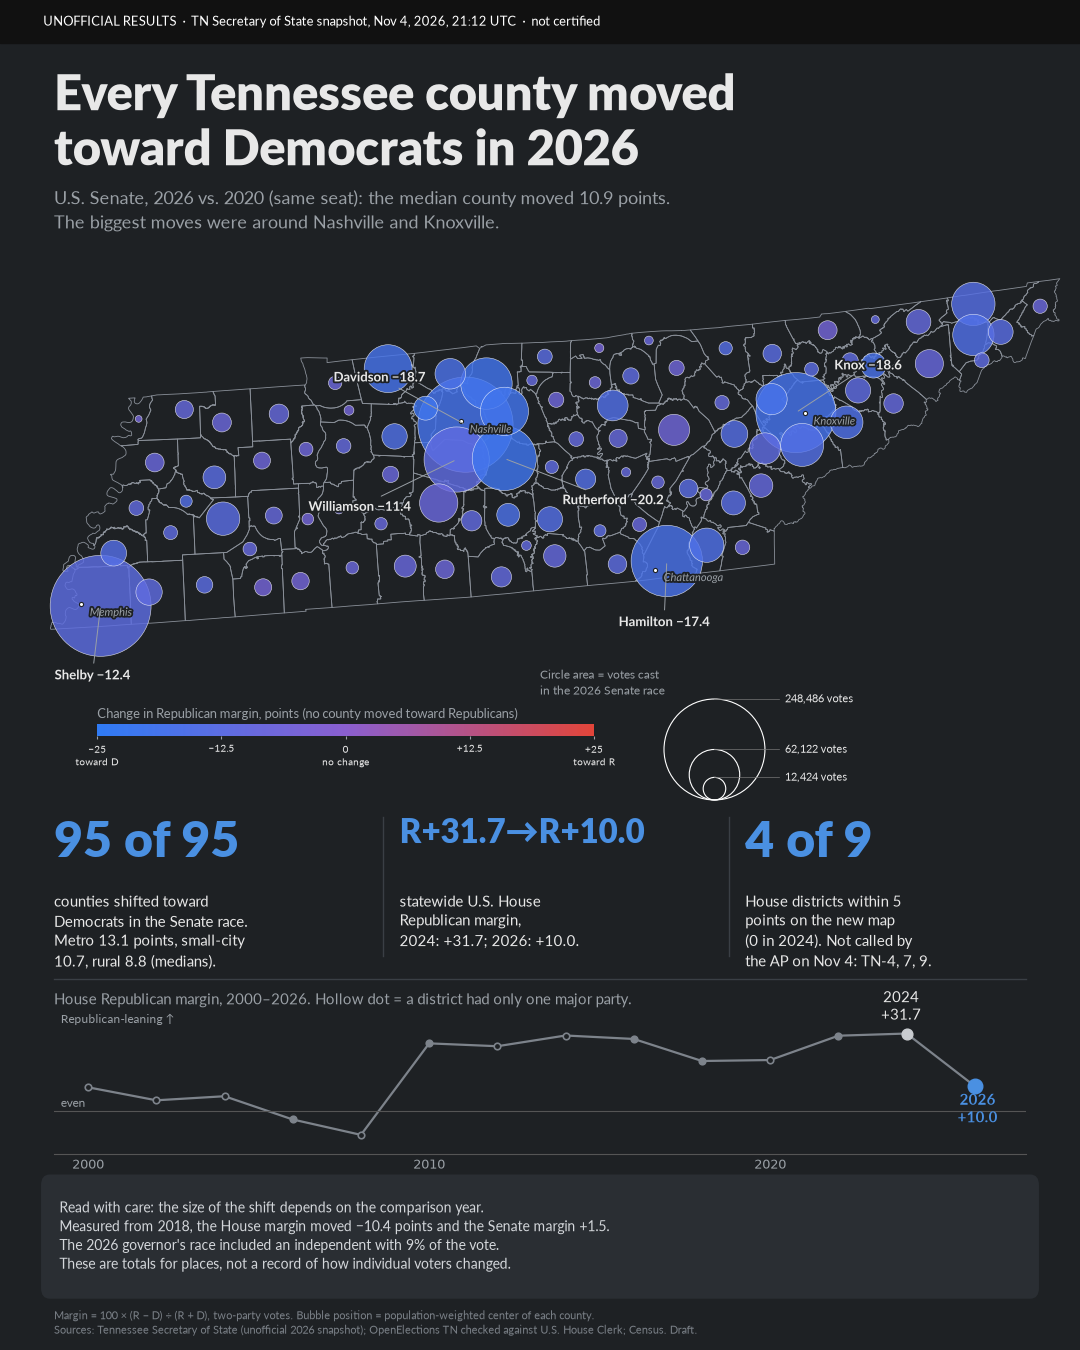
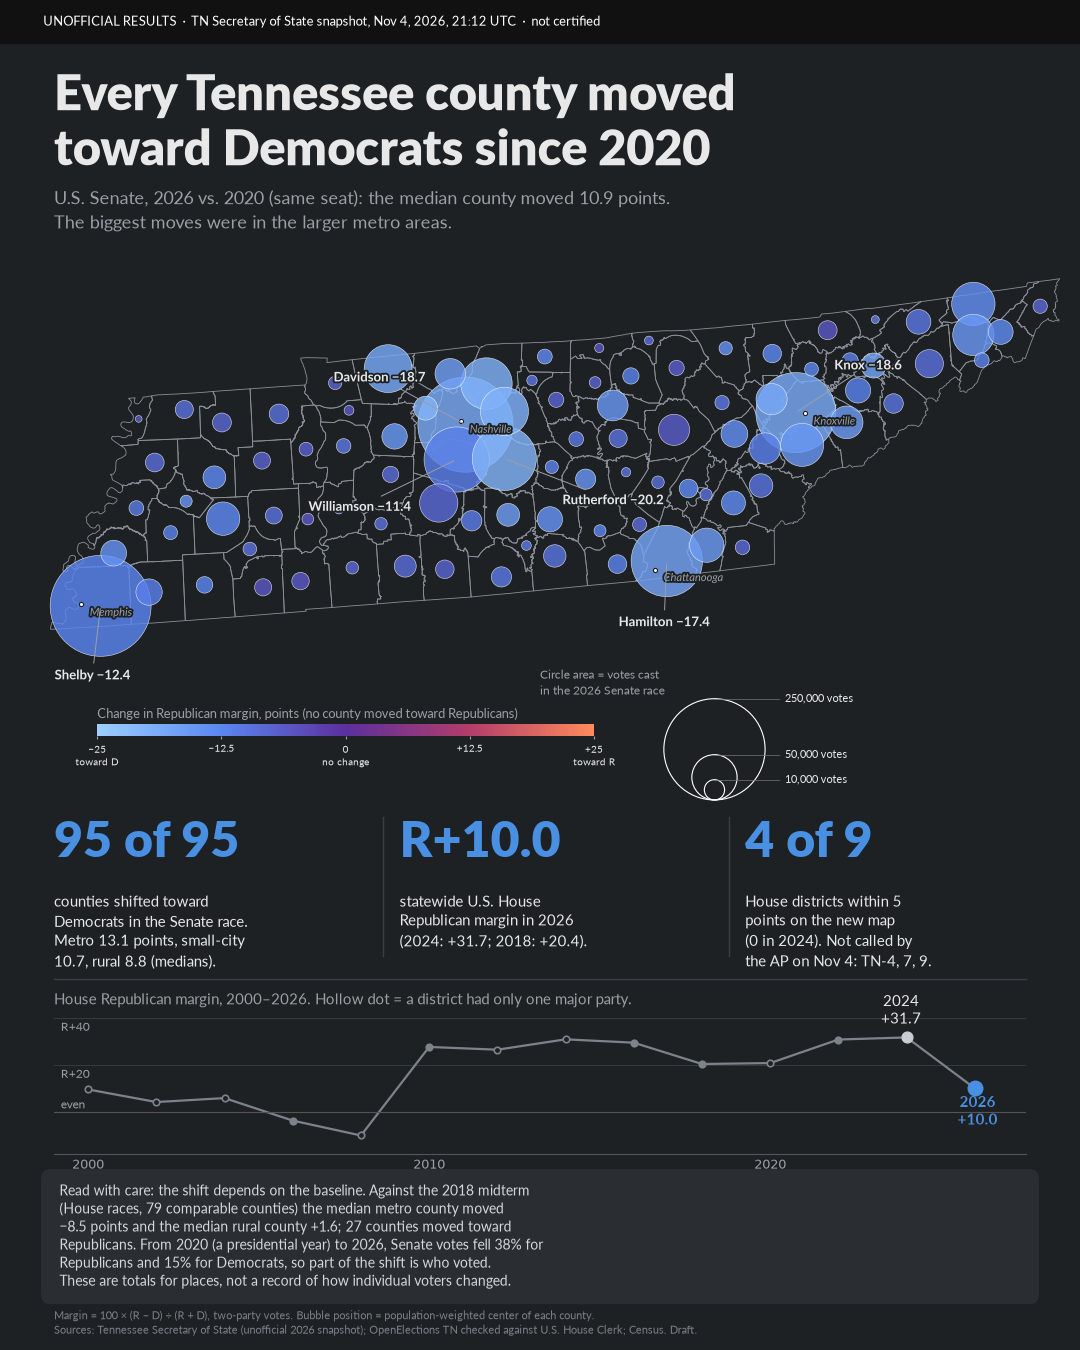
Add Tennessee 2026 maps page (draft, unofficial results) as of 2026-11-05 02:13 UTC

diff --git a/tn-2026/index.html b/tn-2026/index.html
@@ -6,6 +6,6 @@ main{max-width:1100px;margin:0 auto;padding:16px}h1{font-size:clamp(26px,4vw,40p
 figure{margin:28px 0}img{width:100%;height:auto;border-radius:6px;background:#fff}figcaption{padding:8px 2px;max-width:50em}.note{background:var(--card);padding:12px 14px;border-radius:8px;max-width:46em}a{color:inherit}</style></head><body>
 <header><b>UNOFFICIAL RESULTS</b> &middot; Tennessee Secretary of State snapshot, Nov 4, 2026, 21:12 UTC &middot; all precincts reporting &middot; not certified</header>
 <main><h1>Tennessee 2026 election maps (draft)</h1>
-<p>Maps from a work-in-progress analysis of Tennessee elections, 2000&ndash;2026. Results shown are an unofficial election-night snapshot and will change as counties canvass and the state certifies. This page is a draft: nothing here is a final conclusion.</p>
+<p>Maps from a work-in-progress analysis of Tennessee elections, 2000&ndash;2026. The size of the 2026 shift depends heavily on the comparison year: it is large against 2020, 2022 and 2024 and much smaller, and concentrated in the larger metro counties, against the 2018 midterm. Results shown are an unofficial election-night snapshot and will change as counties canvass and the state certifies. This page is a draft: nothing here is a final conclusion.</p>
 <div class="note">Margin = 100 &times; (R &minus; D) &divide; (R + D), two-party votes. Maps show where results moved, not how individual voters changed. Sources: Tennessee Secretary of State (unofficial 2026 snapshot); OpenElections TN checked against U.S. House Clerk; Census Bureau; HB 7003 (114th General Assembly).</div>
-<figure><a href="img/hero_dark_16x9.png"><img src="img/hero_dark_16x9.png" alt="Dark map of Tennessee with hollow county outlines and one circle per county. Circle size is votes cast in the 2026 U.S. Senate race; circle color runs from blue (largest move toward Democrats) toward purple (smaller moves). Every circle is blue or blue-purple: all 95 counties moved toward Democrats compared with 2020, with the biggest moves around Nashville and Knoxville. Side panel: statewide U.S. House Republican margin fell from R+31.7 in 2024 to R+10.0 in 2026, and four of nine House districts were within 5 points." loading="lazy"></a><figcaption><b>Every Tennessee county moved toward Democrats in 2026</b><br>U.S. Senate, 2026 vs 2020 (same seat). Median county moved 10.9 points toward Democrats; 95 of 95 counties moved. The size of the shift depends on the comparison year (measured from 2018, the House margin moved -10.4 points and the Senate margin +1.5). In the 2000-2026 strip, hollow dots mark years when a district had only one major party on the ballot, which distorts the statewide margin (for example 2008).<br><a href="img/hero_dark_16x9.png">Open full size</a></figcaption></figure><figure><a href="img/fig1_dark_bubble_swing.png"><img src="img/fig1_dark_bubble_swing.png" alt="Large dark map of Tennessee showing one circle per county, sized by 2026 Senate votes cast and colored by change in the Republican margin since 2020. Shelby, Davidson, Knox, Hamilton and Rutherford are the largest circles. All circles are blue to blue-purple; none are red." loading="lazy"></a><figcaption><b>The bubble map: change in the Republican margin by county</b><br>Circle position is the population-weighted center of each county (2020 Census). Colors: blue = toward Democrats, purple = no change, red = toward Republicans; no county moved toward Republicans.<br><a href="img/fig1_dark_bubble_swing.png">Open full size</a></figcaption></figure><figure><a href="img/fig6_districts_old_vs_new_map.png"><img src="img/fig6_districts_old_vs_new_map.png" alt="Two maps of Tennessee&#x27;s nine U.S. House districts colored by Republican margin: the 2024 map with 2024 official results, and the 2026 map (HB 7003) with unofficial 2026 results. In 2026, TN-4 is D+0.1, TN-9 R+1.1, TN-7 R+2.2 and TN-6 R+3.3." loading="lazy"></a><figcaption><b>Tennessee&#x27;s new congressional map: four of nine districts are within 5 points</b><br>Old and new districts cover different territory, so the two panels are not a like-for-like change. The AP had not called TN-4, TN-7 or TN-9 as of Nov 4 (per project owner).<br><a href="img/fig6_districts_old_vs_new_map.png">Open full size</a></figcaption></figure><figure><a href="img/hero_dark_4x5.png"><img src="img/hero_dark_4x5.png" alt="Portrait layout of the same headline map and key numbers: every county moved toward Democrats; the House margin went from R+31.7 to R+10.0; four of nine districts were within 5 points." loading="lazy"></a><figcaption><b>Portrait version (4:5) for social media</b><br>Same data and caveats as the wide version.<br><a href="img/hero_dark_4x5.png">Open full size</a></figcaption></figure><p><small>Page generated 2026-11-05 01:58 UTC. Separate from the 2026 margin-maps page at the site root.</small></p></main></body></html>
+<figure><a href="img/hero_dark_16x9.png"><img src="img/hero_dark_16x9.png" alt="Dark map of Tennessee with hollow county outlines and one circle per county. Circle size is votes cast in the 2026 U.S. Senate race; circle color runs from blue (largest move toward Democrats) toward purple (smaller moves). Every circle is blue or blue-purple: all 95 counties moved toward Democrats compared with 2020, with the biggest moves in the larger metro areas. Side panel: statewide U.S. House Republican margin is R+10.0 in 2026, down from R+31.7 in 2024 and R+20.4 in 2018, and four of nine House districts were within 5 points." loading="lazy"></a><figcaption><b>Every Tennessee county moved toward Democrats since 2020 (U.S. Senate)</b><br>U.S. Senate, 2026 vs 2020 (same seat, same two candidates). Median county moved 10.9 points toward Democrats; 95 of 95 counties moved. The result depends on the baseline: against the 2018 midterm, the median metro county moved -8.5 points in House races and the median rural county +1.6, 27 of 79 comparable counties moved toward Republicans, and the Senate margin was about unchanged. From 2020 to 2026 Republican Senate votes fell 38% and Democratic votes 15%, so part of the shift is who voted in a midterm versus a presidential year. In the 2000-2026 strip, hollow dots mark years when a district had only one major party on the ballot, which distorts the statewide margin (for example 2008).<br><a href="img/hero_dark_16x9.png">Open full size</a></figcaption></figure><figure><a href="img/fig1_dark_bubble_swing.png"><img src="img/fig1_dark_bubble_swing.png" alt="Large dark map of Tennessee showing one circle per county, sized by 2026 Senate votes cast and colored by change in the Republican margin since 2020, from light blue (largest move toward Democrats) through purple (no change) to coral (toward Republicans). Shelby, Davidson, Knox, Hamilton and Rutherford are the largest circles. Every circle is blue or blue-violet; none moved toward Republicans compared with 2020." loading="lazy"></a><figcaption><b>The bubble map: change in the Republican margin by county, 2020 to 2026</b><br>Circle position is the population-weighted center of each county (2020 Census). Circle area key: 250,000, 50,000 and 10,000 votes. Compared with the 2018 midterm the pattern is different (see the caution box on the first graphic).<br><a href="img/fig1_dark_bubble_swing.png">Open full size</a></figcaption></figure><figure><a href="img/fig6_districts_old_vs_new_map.png"><img src="img/fig6_districts_old_vs_new_map.png" alt="Two maps of Tennessee&#x27;s nine U.S. House districts colored by Republican margin: the 2024 map with 2024 official results, and the 2026 map (HB 7003) with unofficial 2026 results. In 2026, TN-4 is D+0.1, TN-9 R+1.1, TN-7 R+2.2 and TN-6 R+3.3." loading="lazy"></a><figcaption><b>Tennessee&#x27;s new congressional map: four of nine districts are within 5 points</b><br>Old and new districts cover different territory, so the two panels are not a like-for-like change. The AP had not called TN-4, TN-7 or TN-9 as of Nov 4 (per project owner).<br><a href="img/fig6_districts_old_vs_new_map.png">Open full size</a></figcaption></figure><figure><a href="img/hero_dark_4x5.png"><img src="img/hero_dark_4x5.png" alt="Portrait layout of the same headline map and key numbers: every county moved toward Democrats; the House margin went from R+31.7 to R+10.0; four of nine districts were within 5 points." loading="lazy"></a><figcaption><b>Portrait version (4:5) for social media</b><br>Same data and caveats as the wide version.<br><a href="img/hero_dark_4x5.png">Open full size</a></figcaption></figure><p><small>Page generated 2026-11-05 02:13 UTC. Separate from the 2026 margin-maps page at the site root.</small></p></main></body></html>
